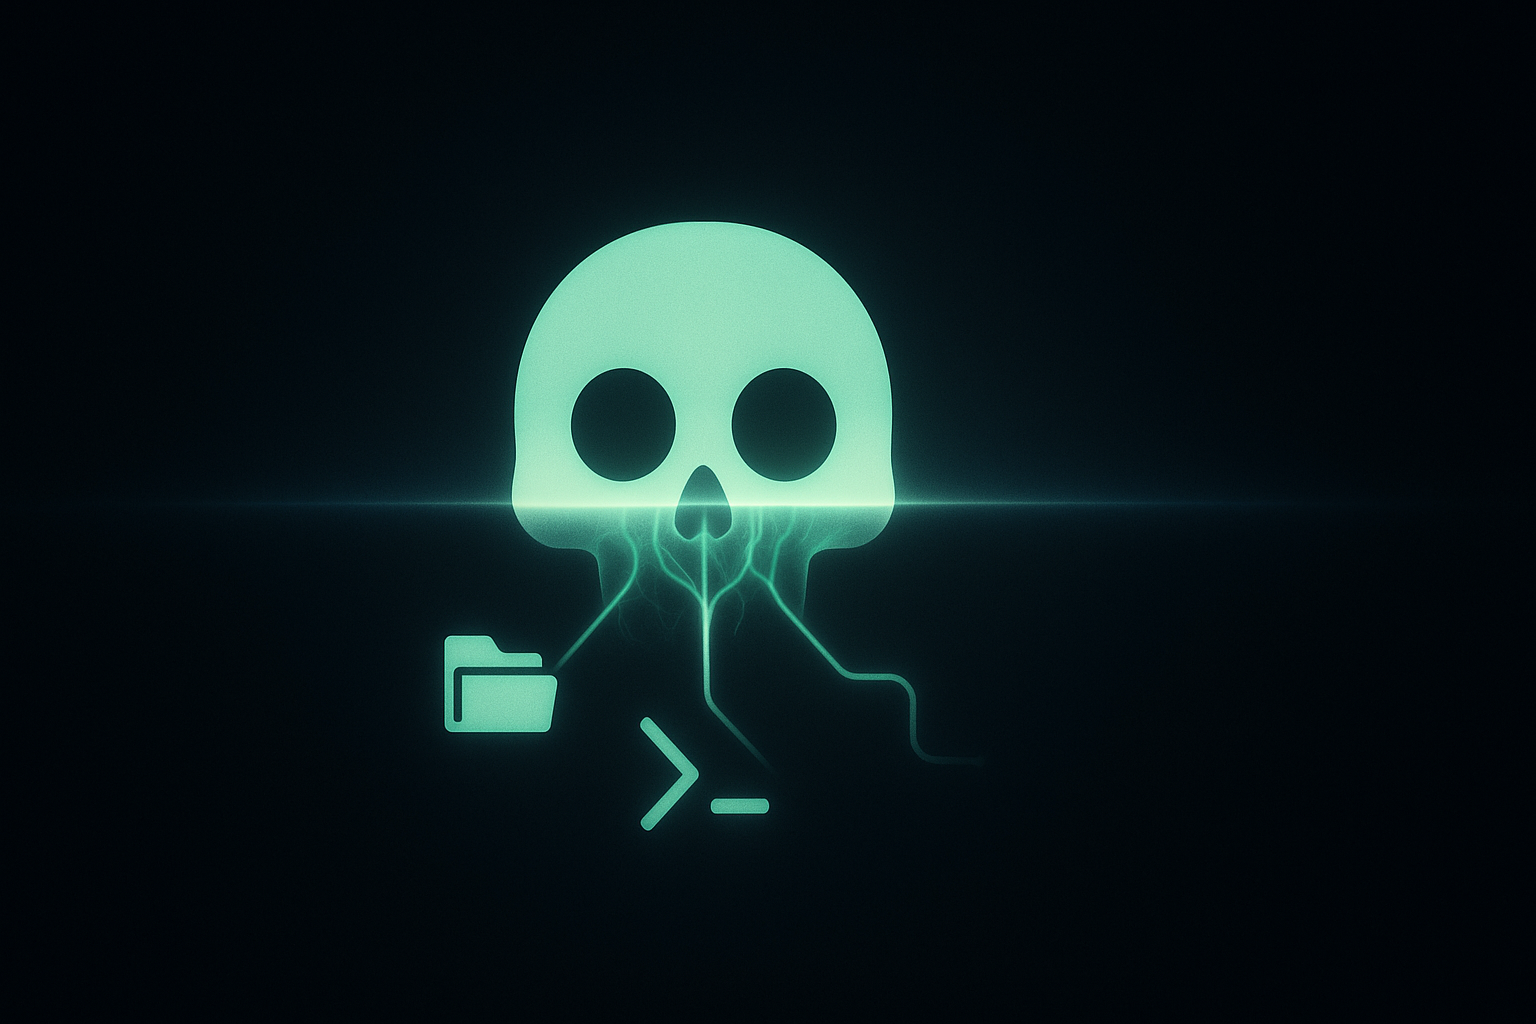
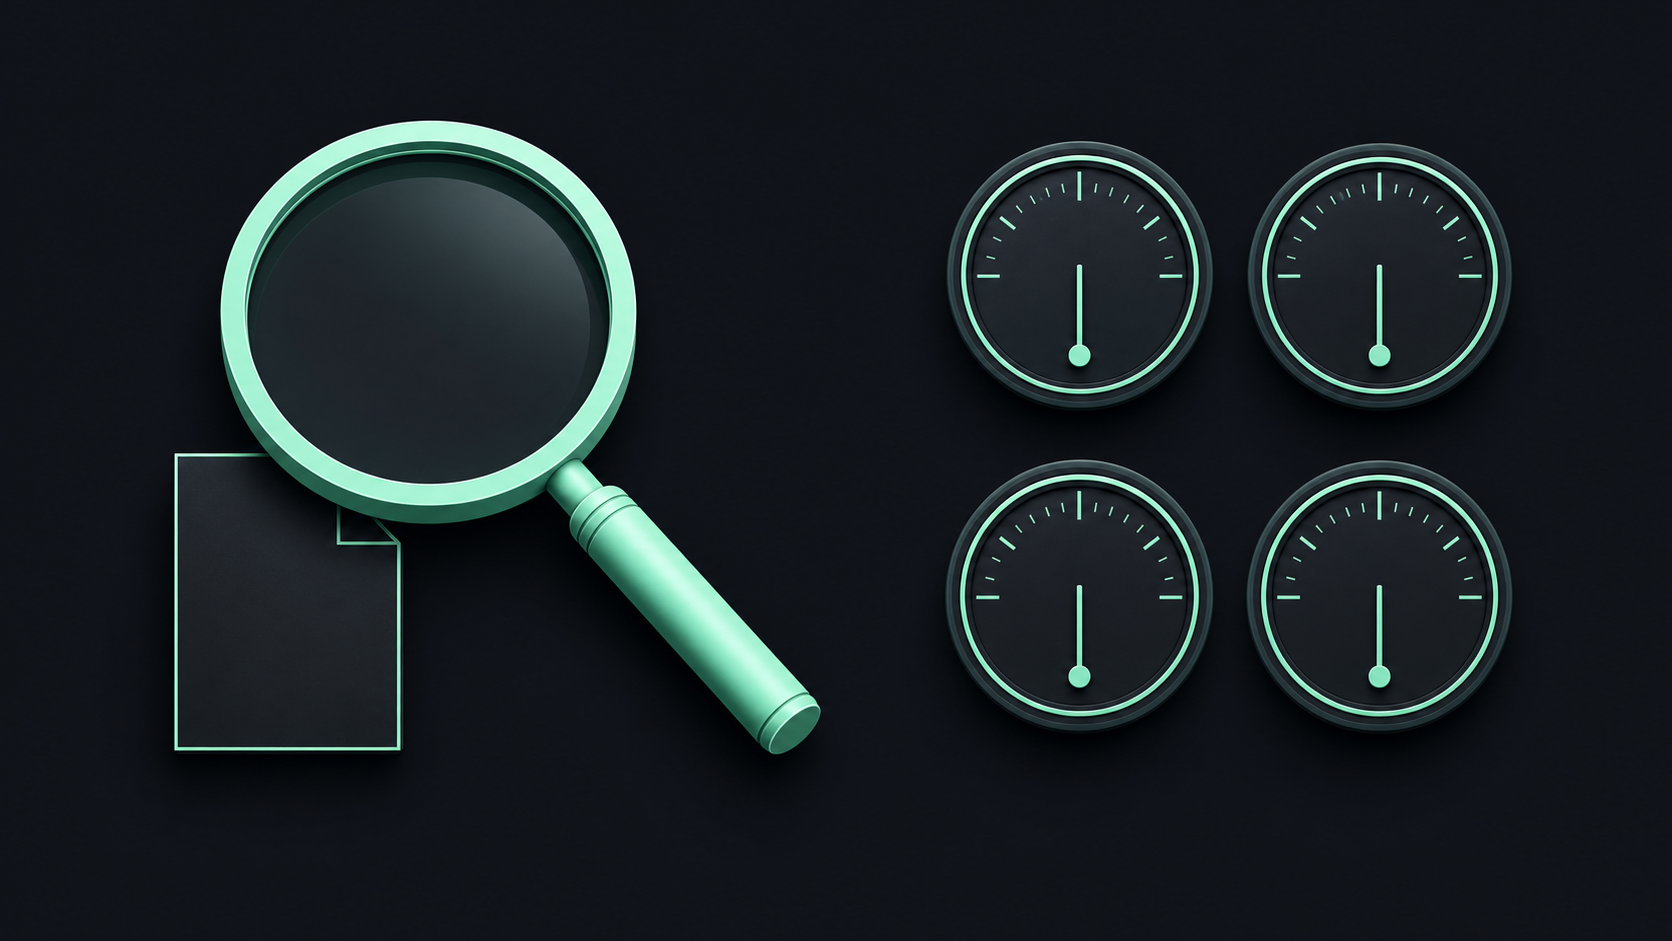
content: correction-appropriate hero for the grill-me post (four gauges at zero)
Claude-Session: https://claude.ai/code/session_011rX8wpGSNz4LiLwzPn61xG

diff --git a/src/content/blog/2026-07-15-grill-me-what-an-auditor-sees.md b/src/content/blog/2026-07-15-grill-me-what-an-auditor-sees.md
@@ -18,7 +18,7 @@ summary:
     - "Publishing this one listing also surfaced a 33.8 MiB data file that had been silently killing our deploys since around July 12."
   whatYouGet: "You get a public correction done properly: what we got wrong and the real audit that replaces it. You also get the pipeline change that catches an invented name colliding with a real product before it reaches review."
 heroImage: "/images/grill-me-what-an-auditor-sees.png"
-heroImageAlt: "Teal skull icon with roots feeding into folder and terminal icons, the hero from the original version of this audit post"
+heroImageAlt: "Mint magnifying glass over a small clean file beside four gauges all reading zero, the four audit axes of the real grill-me audit"
 ---
 
 The last version of this post hung a real audit's findings on the name "grill-me" and footnoted the name as invented. Grill-me is [Matt Pocock's real skill](https://github.com/mattpocock/skills) with none of those findings; the footnote calling it invented was false. This rewrite runs at the same address the mistake lived at, carrying the same weight. It's the correction, and it's the audit we should have run on this artifact in the first place (an AI skill security audit before install), done for real this time.
